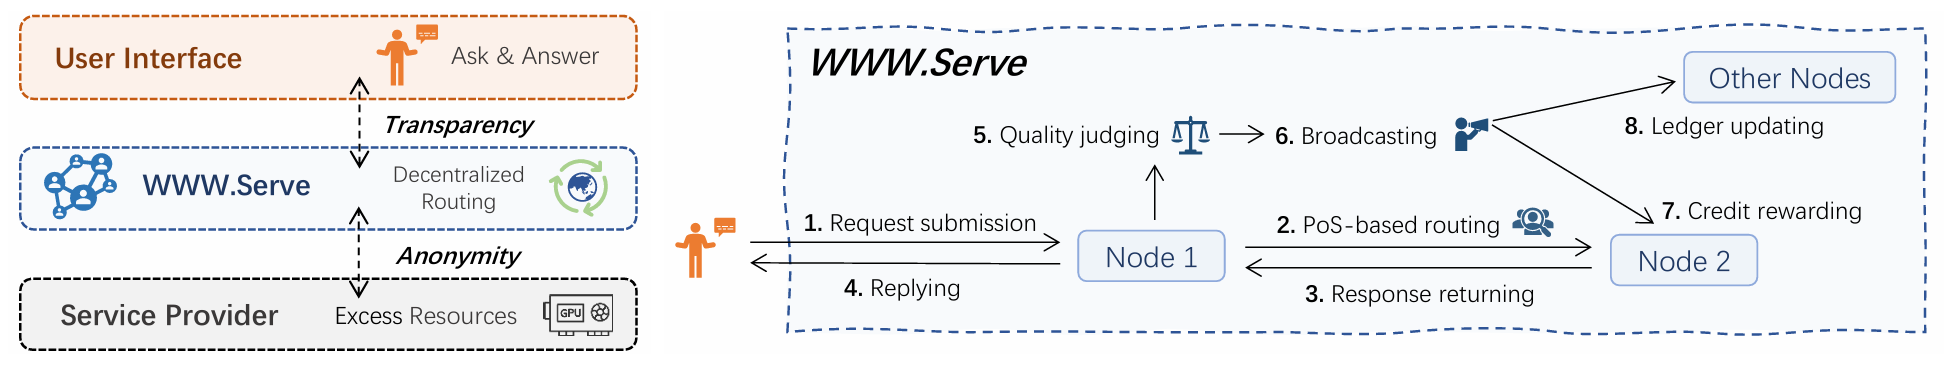
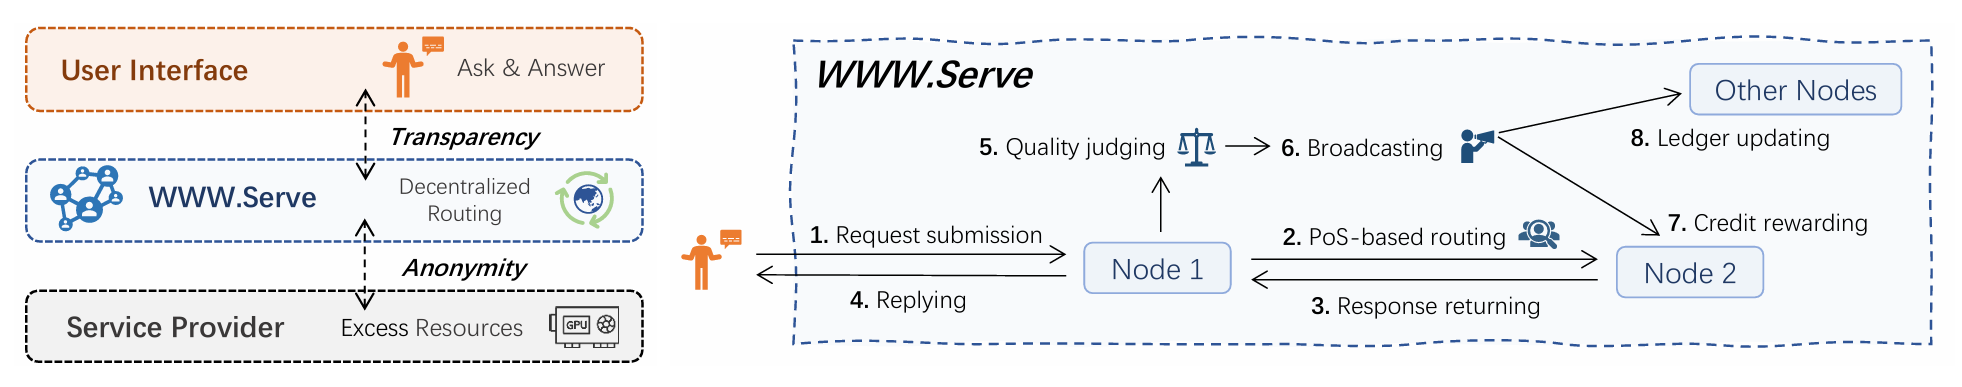
Update README

diff --git a/README.md b/README.md
@@ -10,7 +10,7 @@ Carnegie Mellon University
 </div>
 
 <div align="center">
-[<a href="TODO">Paper</a>] | [<a href="TODO">Blog</a>]
+[<a href="TODO">Paper</a>] | [<a href="https://infini-ai-lab.github.io/WWW.Serve">Blog</a>]
 </div>
 
 
@@ -21,7 +21,7 @@ Carnegie Mellon University
   <img src="assets/overview.png" width="90%" />
 </div>
 
-**`WWW.Serve`** operates as an intermediate decentralized serving layer between users and LLM service providers, offering users access to an open and competitive market of worldwide LLM services while preserving service providers’ anonymity and flexibility. Within WWW.Serve, inference requests follow a collaborative workflow that performs decentralized routing, execution, and quality-aware evaluation.
+**`WWW.Serve`** operates as an intermediate decentralized serving layer between users and LLM service providers, offering users access to an open and competitive market of worldwide LLM services while preserving service providers’ anonymity and flexibility. Within `WWW.Serve`, inference requests follow a collaborative workflow that performs decentralized routing, execution, and quality-aware evaluation.
 
 Three key designs are integrated:
 - a credit-based transaction system for trustless collaboration.
